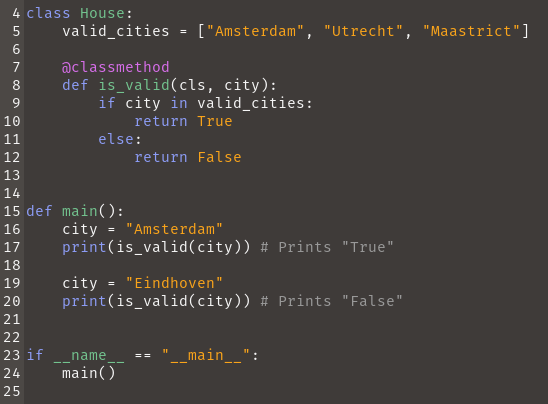
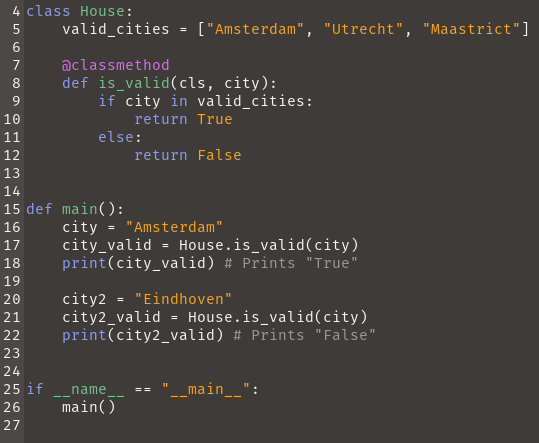
Fixed mistake

diff --git a/Code/classmethods_is_valid.py b/Code/classmethods_is_valid.py
@@ -14,10 +14,12 @@ class House:
 
 def main():
     city = "Amsterdam"
-    print(is_valid(city)) # Prints "True"
+    city_valid = House.is_valid(city)
+    print(city_valid) # Prints "True"
     
-    city = "Eindhoven"
-    print(is_valid(city)) # Prints "False"
+    city2 = "Eindhoven"
+    city2_valid = House.is_valid(city)
+    print(city2_valid) # Prints "False"
 
 
 if __name__ == "__main__":
